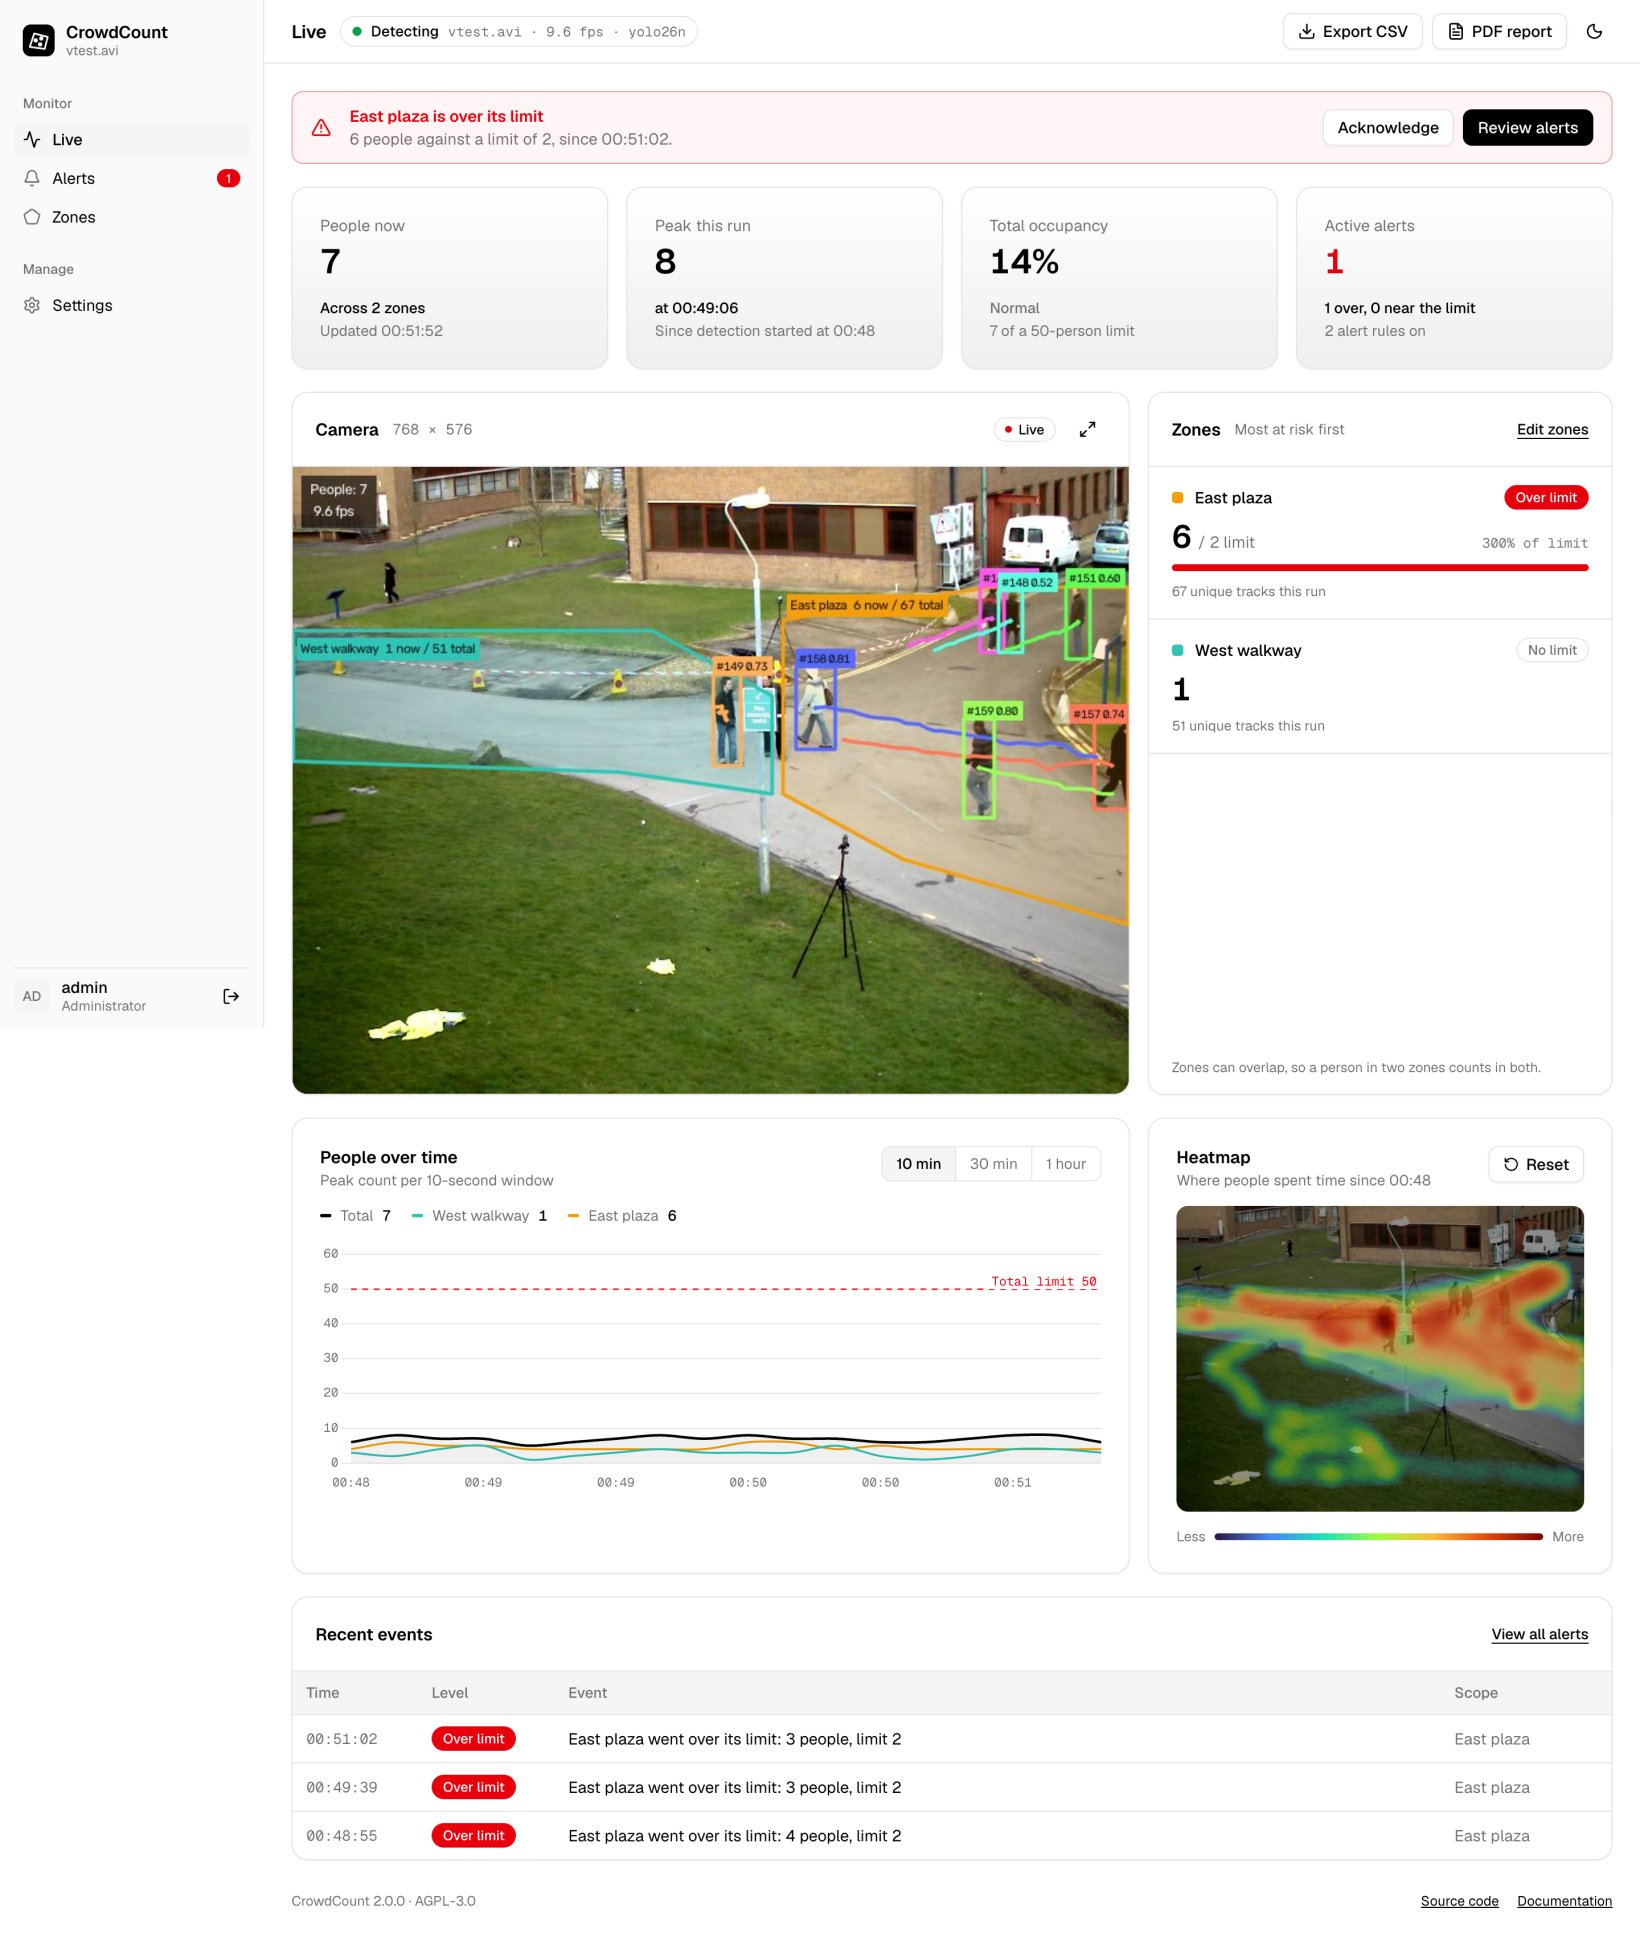
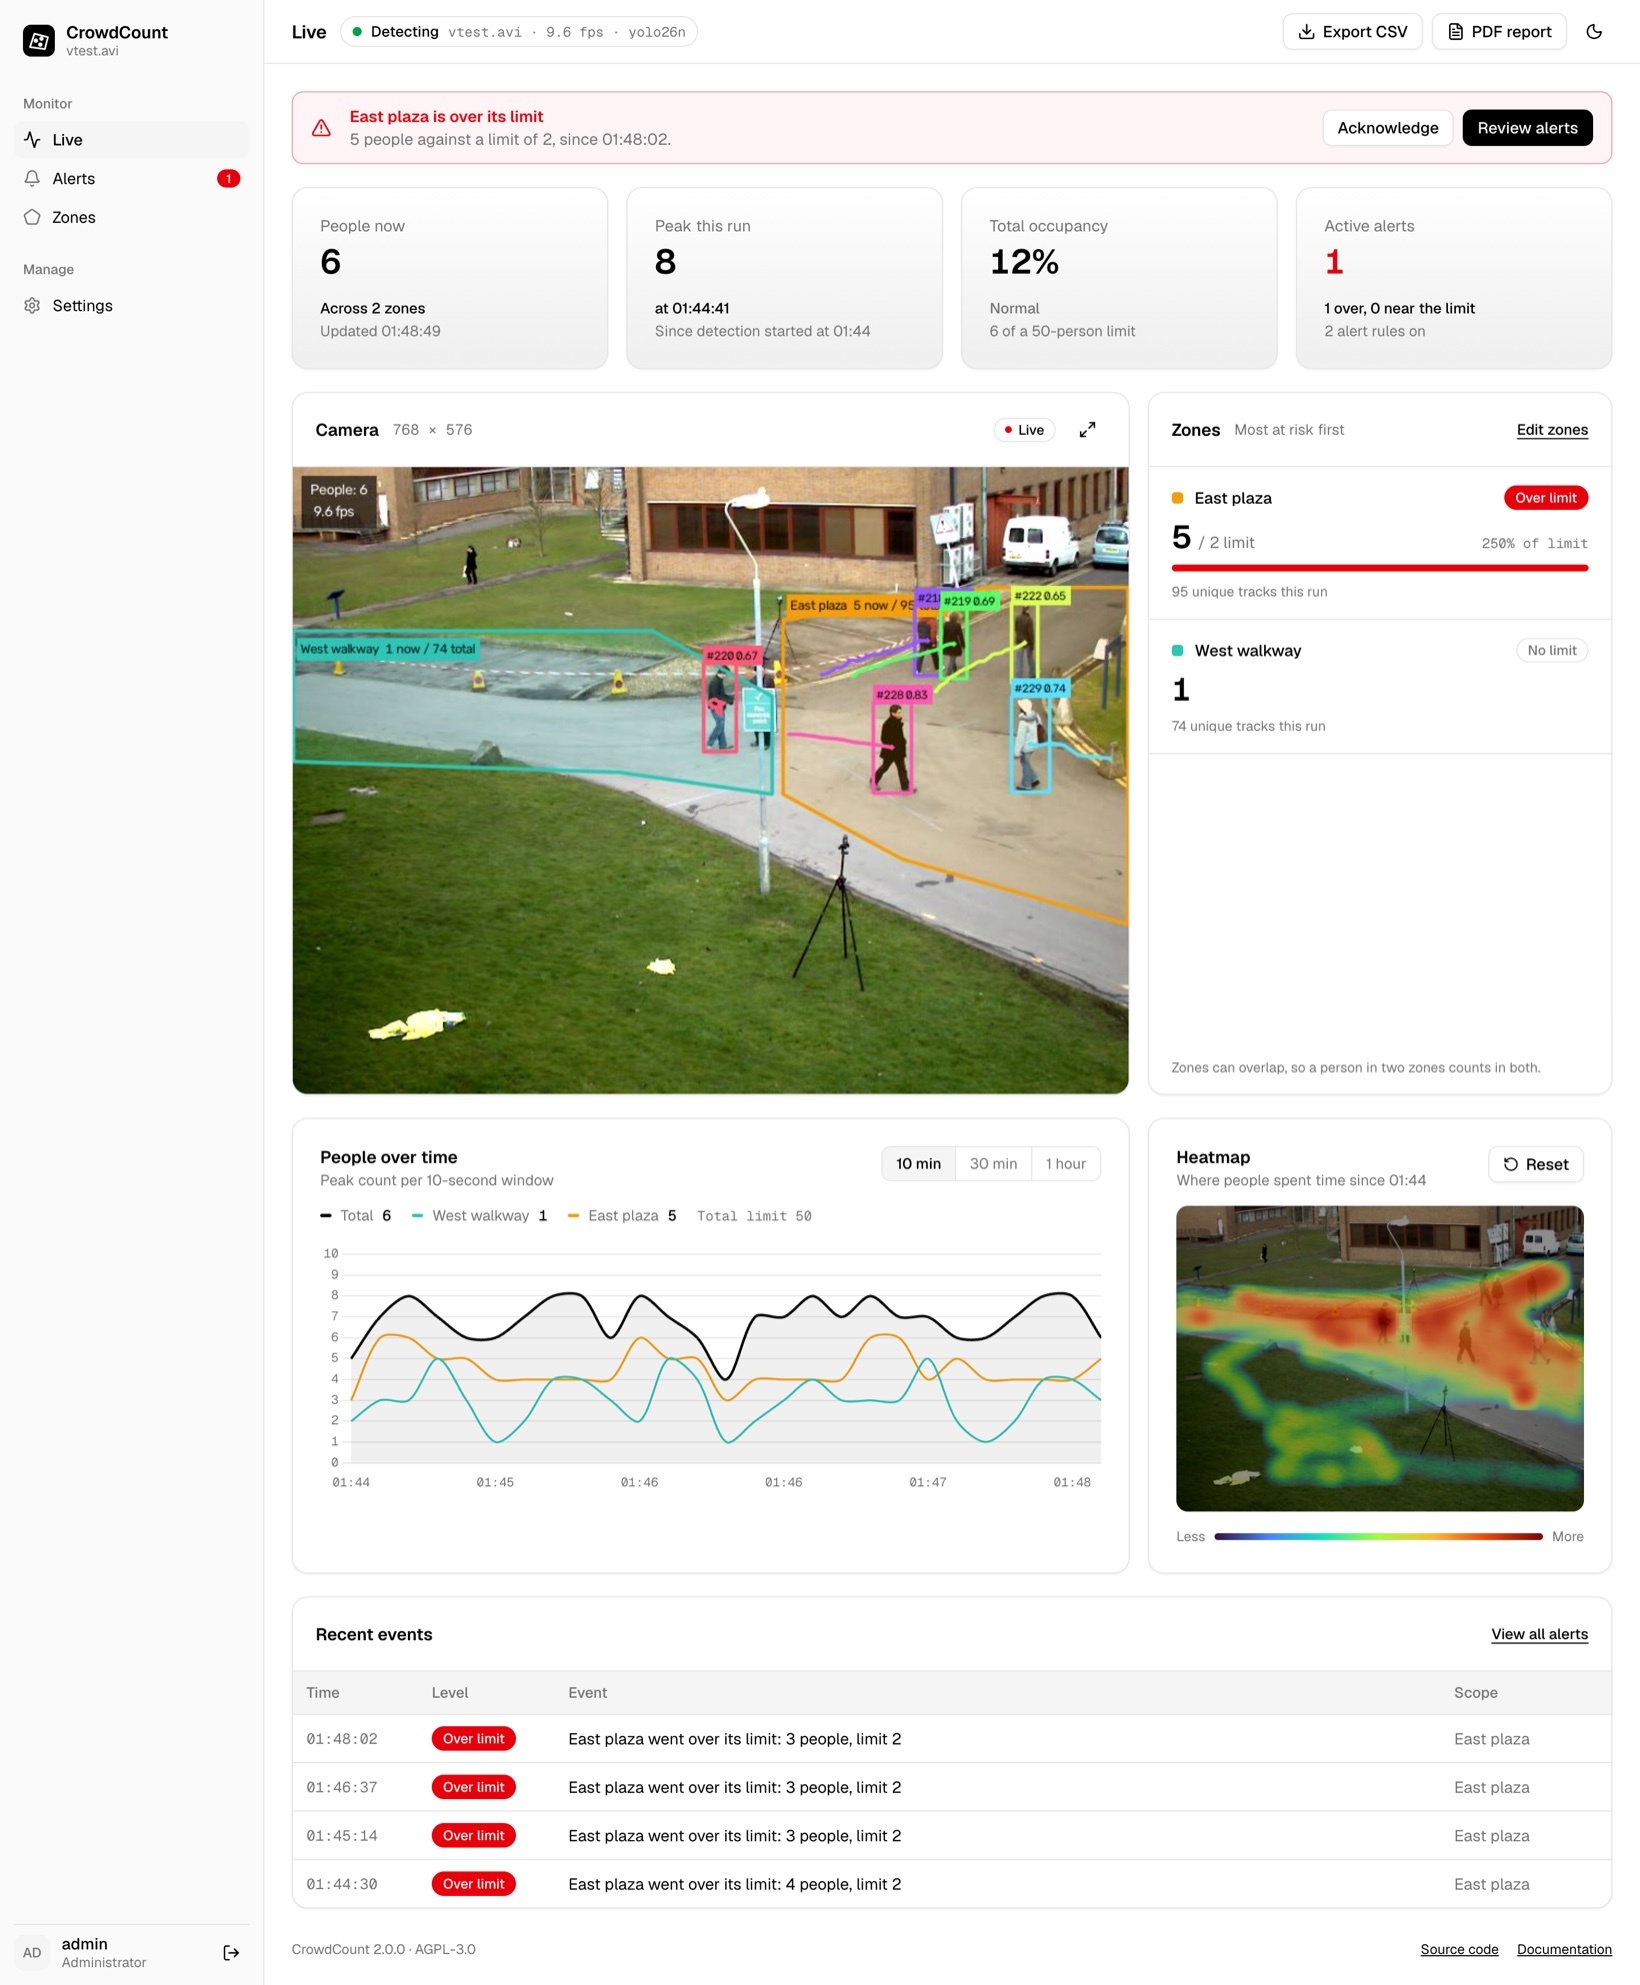
docs: correct dashboard claims and refresh screenshots
- dashboard.md: the real status pill labels; zones show no share of the
  total when they have no limit (and *Off* when switched off with one);
  how the chart shows the Total occupancy limit; the History lists the
  latest 500 records; changing a limit acts at once like switching a
  rule off; alert records share the 20,000-entry cap; the levels table
  no longer says a switched-off rule reads Normal with no badge.
- zones.md: 10 is near too for a limit of 10, and limit changes act at
  once. architecture.md: alerts_history.json is capped.
- dashboard.jpg is a page-height viewport capture, so the sidebar spans
  the page, with the chart scaled to the counts. zone-editor.jpg shows
  "Saved to data/demo-zones.json" instead of a development path.

diff --git a/docs/dashboard.md b/docs/dashboard.md
@@ -25,8 +25,8 @@ recovers by itself when it comes back.
 
 Refreshes once a second and needs no sign-in.
 
-- **Status pill**: detector state (live, starting, finished, error, offline), source and
-  throughput. Hover for model, tracker and device.
+- **Status pill**: detector state (Detecting, Starting, Finished, Error, Offline, or Disconnected
+  when the server can't be reached), source and throughput. Hover for model, tracker and device.
 - **Banner**: appears while a scope is over its limit and its rule has *Show a banner on the
   dashboard* on. It names the scope, the count and the limit, and mentions scopes that are close
   to theirs. Admins get an *Acknowledge* button; everyone gets *Review alerts*. If the detector
@@ -36,12 +36,15 @@ Refreshes once a second and needs no sign-in.
 - **Camera**: the annotated video as MJPEG (`/api/stream`, up to 15 fps), with a full-screen
   button. It disconnects while the tab is hidden, and shows an explanation instead of a black
   box when the detector isn't running.
-- **Zones**: occupancy per zone in the overlay colours, against its limit (or its share of the
-  total when it has none), with the unique-track count. Zones at the greatest risk come first.
-  Admins get an *Edit zones* link.
+- **Zones**: occupancy per zone in the overlay colours, against its limit when it has one, with
+  the unique-track count. Zones at the greatest risk come first. A zone switched off on the Zones
+  page isn't counted: it shows *Off* if it has a limit and is left out otherwise. Admins get an
+  *Edit zones* link.
 - **People over time**: total plus one line per zone, for the last 10 minutes, 30 minutes or hour
   (your choice is remembered). Each point is the peak within its window (10 seconds, 30
-  seconds or a minute).
+  seconds or a minute). While the Total occupancy rule is on, its limit is drawn as a dashed line
+  when it is at most twice the highest count shown; a limit far above the counts is listed at the
+  end of the legend instead, so the lines keep the full height of the chart.
 - **Heatmap**: where people have been since the run started or the last reset, blended over the
   latest frame. Signed-in users can reset it.
 - **Recent events**: the five latest alert records, with a link to the Alerts page. Only alert
@@ -53,8 +56,8 @@ Refreshes once a second and needs no sign-in.
 
 What is at risk, what fired, and the rules behind it.
 
-- **Risk right now**: one card per scope that has a rule (Total occupancy and any zones): the count
-  against its limit, and a marker where the early warning starts.
+- **Risk right now**: one card per scope whose rule is on (Total occupancy and any zones that are
+  being counted): the count against its limit, and a marker where the early warning starts.
 - **Active now**: alerts that are open this moment. They clear on their own when counts drop
   back.
 - **Alert rules**: one per scope, either **Total occupancy** (everyone in the frame) or a zone.
@@ -68,9 +71,9 @@ What is at risk, what fired, and the rules behind it.
   off, but not removed). Changes apply to the running detector at once and are saved. Everyone
   else sees the rules read-only. A zone's limit can also be set when drawing it on the
   [Zones](#zones) page.
-- **History**: every recorded alert, filterable (all, needs review, acknowledged) and exportable
-  as CSV, with an *Acknowledge* button for admins. History survives restarts. The name of the admin who
-  acknowledged an alert is shown to admins only.
+- **History**: the latest 500 alert records, filterable (all, needs review, acknowledged) and
+  exportable as CSV, with an *Acknowledge* button for admins. History survives restarts. The name
+  of the admin who acknowledged an alert is shown to admins only.
 
 ### Alert levels
 
@@ -78,7 +81,10 @@ What is at risk, what fired, and the rules behind it.
 | --- | --- | --- |
 | **Over limit** | count > limit | red |
 | **Near limit** | count ≥ `warn_at` and ≤ limit | amber |
-| **Normal** | anything lower, or the rule is off | none |
+| **Normal** | anything lower | grey outline |
+
+A scope whose rule is switched off raises no alerts and shows *Off*; a zone without a rule shows
+*No limit*.
 
 `warn_at = min(limit, max(1, ceil(limit × early warning % / 100)))`. With a limit of 10 and the
 default 80%, `warn_at` is 8: 8, 9 and 10 people are *near*, and 11 is *over*. A limit of 1 gives
@@ -89,8 +95,8 @@ The server works the level out once; the browser only displays it.
 **Rising is immediate, falling is not.** An alert appears as soon as a count reaches the next
 level. It drops a level, or clears, only after the lower condition has held for **5 seconds**.
 Detection counts jitter by one or two from frame to frame, and this stops a count hovering at a
-limit from writing a new record every frame. Switching a rule off, or removing it, clears its
-alert at once.
+limit from writing a new record every frame. Admin edits act at once: switching a rule off or
+removing it clears its alert, and changing its limit re-checks the count against the new limit.
 
 **Records and acknowledgement.** Each time an alert rises, one record is written to the history:
 *near* when it reached the early warning, and a second *over* record if it then crossed the
@@ -142,7 +148,8 @@ The activity log is admin-only because it holds usernames and client IP addresse
 
 Entries older than the retention period (default 30 days; change it in Settings → Data or with
 `PUT /api/admin/config/retention?retention_days=N`) are removed at each server start, along with
-old alert records. The log is also capped at 20,000 entries.
+old alert records. The activity log and the alert records are also capped at 20,000 entries
+each; the oldest go first.
 
 ## First sign-in
 

diff --git a/docs/zones.md b/docs/zones.md
@@ -102,9 +102,10 @@ in the *Alert above* field of the zone form on the Zones page, or on the Alerts 
 - **Over limit** when the count is **above** the limit.
 - **Near limit** from `warn_at` up to the limit, where
   `warn_at = min(limit, max(1, ceil(limit × early warning % / 100)))`. With a limit of 10 and the
-  default 80%, 8 and 9 people are near and 11 is over.
+  default 80%, 8, 9 and 10 people are near and 11 is over.
 - An alert appears at once. It drops a level or clears only after the lower condition has held
-  for 5 seconds, so a count hovering at a limit doesn't write a new record every frame.
+  for 5 seconds, so a count hovering at a limit doesn't write a new record every frame. Changing
+  the limit, switching the rule off or removing it takes effect at once.
 
 Each alert that appears is recorded once, shown on the Live page (a banner for over-limit alerts,
 if the rule shows one) and in the Alerts page's history, where admins can acknowledge it, and

diff --git a/docs/architecture.md b/docs/architecture.md
@@ -105,7 +105,7 @@ data_dir`), plus the zones file:
 | `.jwt_secret` | Generated token-signing secret, if `CROWDCOUNT_JWT_SECRET` is unset (`0600`). |
 | `config.json` | Alert rule limits and options, saved cameras, log retention. |
 | `activity_logs.json` | Sign-ins, configuration changes, alerts (capped at 20,000 entries; pruned by retention at startup). |
-| `alerts_history.json` | One record per alert raised (near or over its limit), with acknowledgement. |
+| `alerts_history.json` | One record per alert raised (near or over its limit), with acknowledgement (capped at 20,000 entries; pruned by retention at startup). |
 | `demo-zones.json` | Zones used by `crowdcount demo`. |
 | `zones.json` (default `./zones.json`) | Zone polygons for `run`/`detect`/`serve`. |
 
